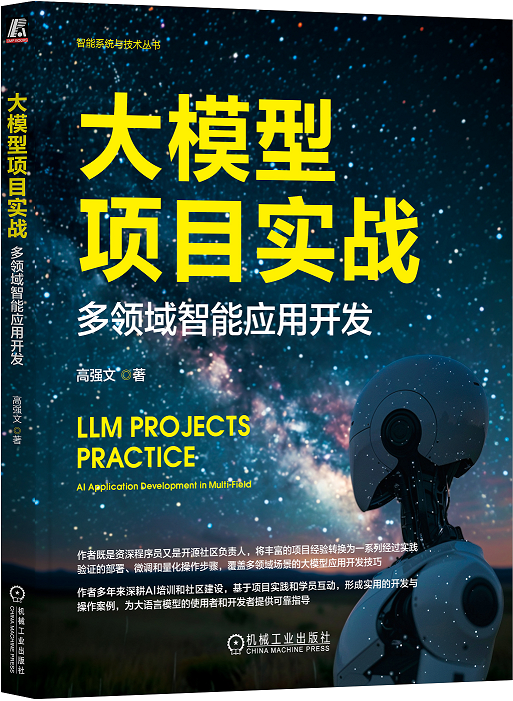
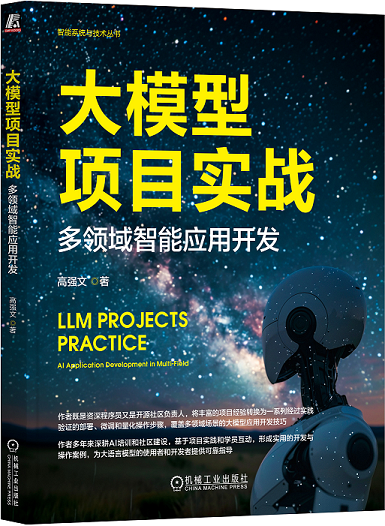
README增加图书图片

diff --git a/README.md b/README.md
@@ -1,5 +1,9 @@
 # 大模型项目实战：多领域智能应用开发配套资源
 
+[图书官方直营：https://item.jd.com/14810472.html](https://item.jd.com/14810472.html)
+
+![图书](https://gitclone.com/download1/llm-dev/llm-dev.png)
+
 ## 基础篇
 
 ### [第1章大语言模型的基础知识](https://github.com/little51/llm-dev/tree/main/chapter01)
@@ -41,3 +45,5 @@
 ### [第17章 模型训练应用](https://github.com/little51/llm-dev/tree/main/chapter17)
 
 ### [第18章 AI小镇应用](https://github.com/little51/llm-dev/tree/main/chapter18)
+
+![网店链接](https://gitclone.com/download1/llm-dev/qr-code.png)
